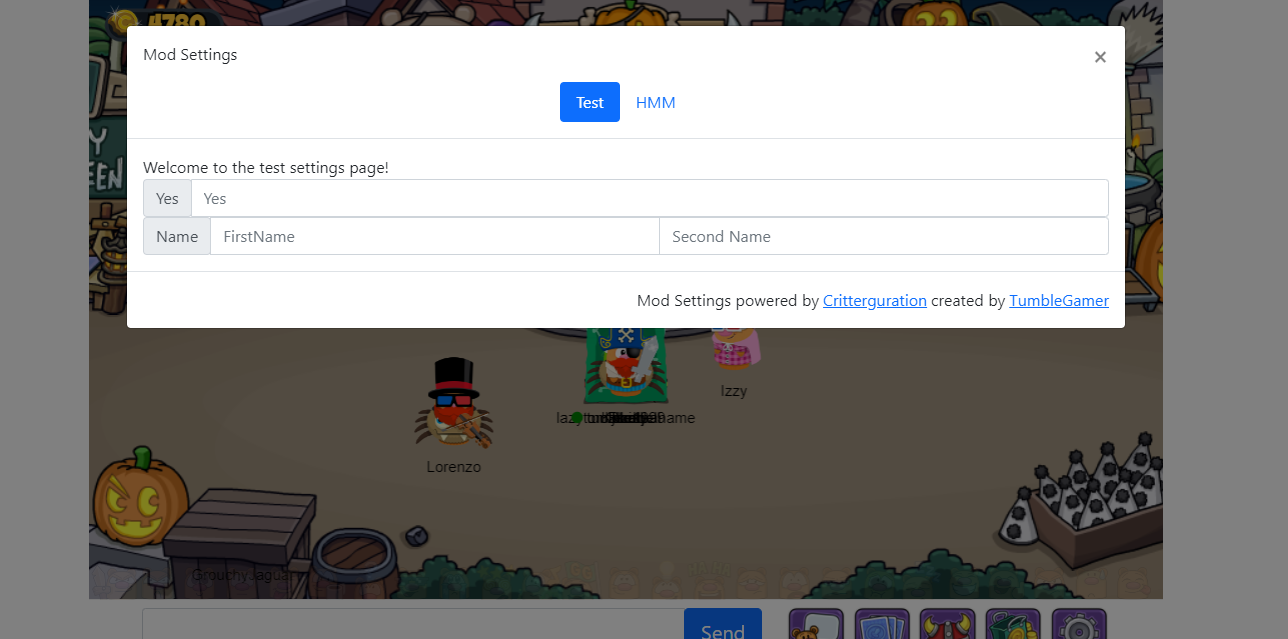
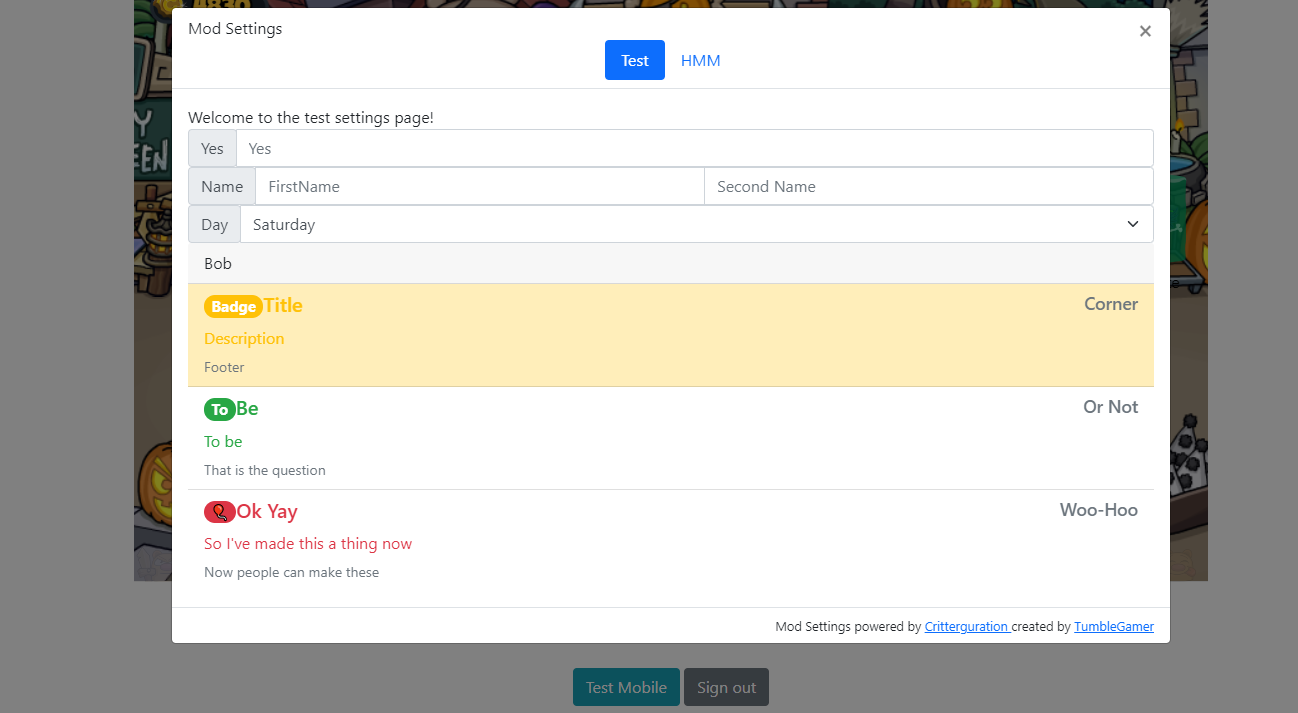
added lists and fixed drop downs

diff --git a/critterguration.user.js b/critterguration.user.js
@@ -100,7 +100,7 @@
 	function createDropdown(container, name, options, shouldSelect, onchange) {
 		let input = document.createElement("select");
 		input.placeholder = name;
-		input.classList.add("custom-select");
+		input.classList.add("form-select");
 		for (let option of options) {
 			let optionElement = document.createElement("option");
 			optionElement.value = option.value;
@@ -137,6 +137,67 @@
 		}
 	};
 
+	function addItemToListGroup(container, name, color = "secondary", description, footer, corner, badge, onclick, active) {
+		let listItem = document.createElement("a");
+		container.appendChild(listItem);
+		listItem.href = "#";
+		listItem.onclick = () => onclick();
+		listItem.classList.add("list-group-item", "list-group-item-action", "text-" + color);
+		if (active) listItem.classList.add("list-group-item-" + color);
+		if (name) {
+			let headerElm = document.createElement("div");
+			headerElm.classList.add(..."d-flex w-100 justify-content-between".split(" "));
+			listItem.appendChild(headerElm);
+			let nameElm = document.createElement("h5");
+			nameElm.classList.add("md-1", "w-100");
+			nameElm.innerText = name;
+			headerElm.appendChild(nameElm);
+			listItem.nameElm = nameElm;
+			if (badge) {
+				let badgeElm = document.createElement("span");
+				badgeElm.classList.add("badge", "rounded-pill", "bg-" + color);
+				badgeElm.innerText = badge;
+				listItem.badgeElm = badgeElm;
+				nameElm.prepend(badgeElm);
+			}
+			if (corner) {
+				let cornerElm = document.createElement("small");
+				cornerElm.classList.add("text-muted", "float-right");
+				cornerElm.innerText = corner;
+				nameElm.appendChild(cornerElm);
+			}
+		}
+		if (description) {
+			let descriptionElm = document.createElement("p");
+			descriptionElm.classList.add("mb-1");
+			descriptionElm.innerText = description;
+			listItem.descriptionElm = descriptionElm;
+			listItem.appendChild(descriptionElm);
+		}
+		if (footer) {
+			let footerElm = document.createElement("small");
+			footerElm.classList.add("text-muted");
+			footerElm.innerText = footer;
+			listItem.footerElm = footerElm;
+			listItem.appendChild(footerElm);
+		}
+		return listItem;
+	}
+
+	function createListGroup(container, name) {
+		let listGroup = document.createElement("div");
+		listGroup.classList.add("list-group", "list-group-flush");
+		if (name) {
+			let label = document.createElement("div");
+			label.classList.add("card-header");
+			label.innerText = name;
+			listGroup.appendChild(label);
+		}
+		listGroup.addItem = (...p) => addItemToListGroup(listGroup, ...p);
+		container.appendChild(listGroup);
+		return listGroup;
+	}
+
 
 	function createInputRow(container, name) {
 		let group = document.createElement("div");
@@ -166,12 +227,13 @@
 		if (tabContainer.children.length > 1) tabContainer.style.display = "flex";
 		if (tabContainer.children.length == 1) setTimeout(_ => activeTab(tab), 0);
 		content.createInputRow = name => createInputRow(content, name);
+		content.createListGroup = name => createListGroup(content, name);
 		setupCreationFunctions(content, true);
 		return content;
 	}
 
 	TumbleMod.onDocumentLoaded().then(alreadyLoaded => {
-		var options = {
+		let options = {
 			text: `<svg width="34" aria-hidden="true" focusable="false" data-prefix="fas" data-icon="cog" class="svg-inline--fa fa-cog fa-w-16" role="img" xmlns="http://www.w3.org/2000/svg" viewBox="0 0 512 512">
 			<path fill="currentColor" d="M487.4 315.7l-42.6-24.6c4.3-23.2 4.3-47 0-70.2l42.6-24.6c4.9-2.8 7.1-8.6 5.5-14-11.1-35.6-30-67.8-54.7-94.6-3.8-4.1-10-5.1-14.8-2.3L380.8 110c-17.9-15.4-38.5-27.3-60.8-35.1V25.8c0-5.6-3.9-10.5-9.4-11.7-36.7-8.2-74.3-7.8-109.2 0-5.5 1.2-9.4 6.1-9.4 11.7V75c-22.2 7.9-42.8 19.8-60.8 35.1L88.7 85.5c-4.9-2.8-11-1.9-14.8 2.3-24.7 26.7-43.6 58.9-54.7 94.6-1.7 5.4.6 11.2 5.5 14L67.3 221c-4.3 23.2-4.3 47 0 70.2l-42.6 24.6c-4.9 2.8-7.1 8.6-5.5 14 11.1 35.6 30 67.8 54.7 94.6 3.8 4.1 10 5.1 14.8 2.3l42.6-24.6c17.9 15.4 38.5 27.3 60.8 35.1v49.2c0 5.6 3.9 10.5 9.4 11.7 36.7 8.2 74.3 7.8 109.2 0 5.5-1.2 9.4-6.1 9.4-11.7v-49.2c22.2-7.9 42.8-19.8 60.8-35.1l42.6 24.6c4.9 2.8 11 1.9 14.8-2.3 24.7-26.7 43.6-58.9 54.7-94.6 1.5-5.5-.7-11.3-5.6-14.1zM256 336c-44.1 0-80-35.9-80-80s35.9-80 80-80 80 35.9 80 80-35.9 80-80 80z"></path>
 			</svg>`,

diff --git a/test.user.js b/test.user.js
@@ -49,9 +49,18 @@
 			console.log("The day is", value.text);
 		});
 
+	let testList = settingContainer.createListGroup("Bob");
+	testList.addItem("Title", "warning", "Description", "Footer", "Corner", "Badge", () => {
+		console.log("This one is the test one");
+	}, true);
+	testList.addItem("Be", "success", "To be", "That is the question", "Or Not", "To", () => {
+		console.log("Shakesphere, Of course.");
+	});
+	testList.addItem("Ok Yay", "danger", "So I've made this a thing now", "Now people can make these", "Woo-Hoo", "🎈", () => {
+		console.log("But now we are here so we can do things with it, many things.");
+	});
+
 
 	let hmmContainer = Critterguration.registerSettingsMenu({ id: "hmm", name: "HMM" });
 	hmmContainer.innerText = "Welcome to Hmm World";
-
-	Critterguration.openSettings();
 })();
